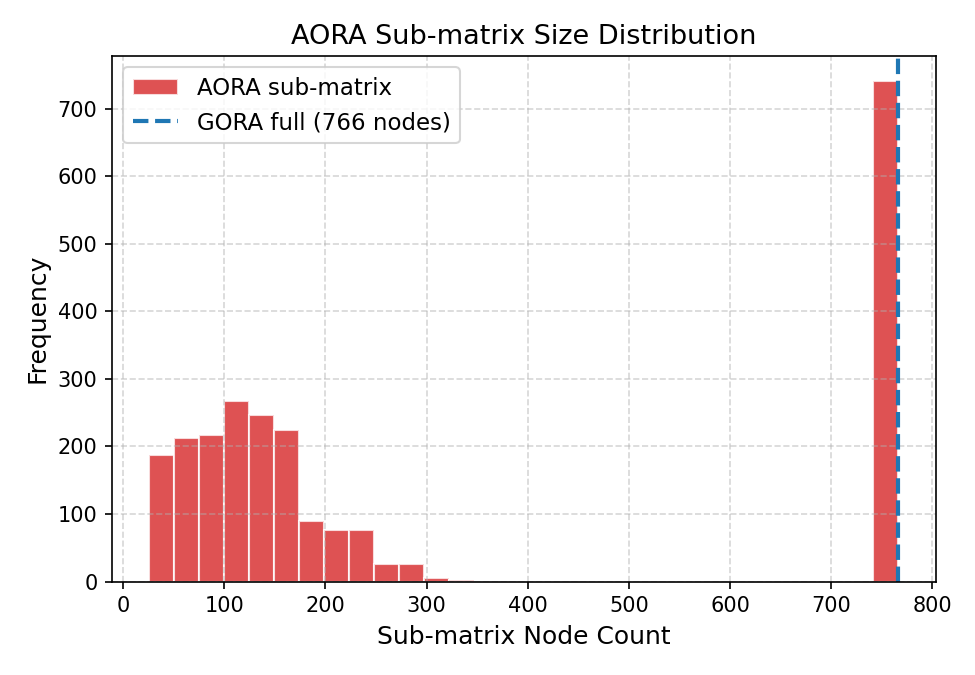
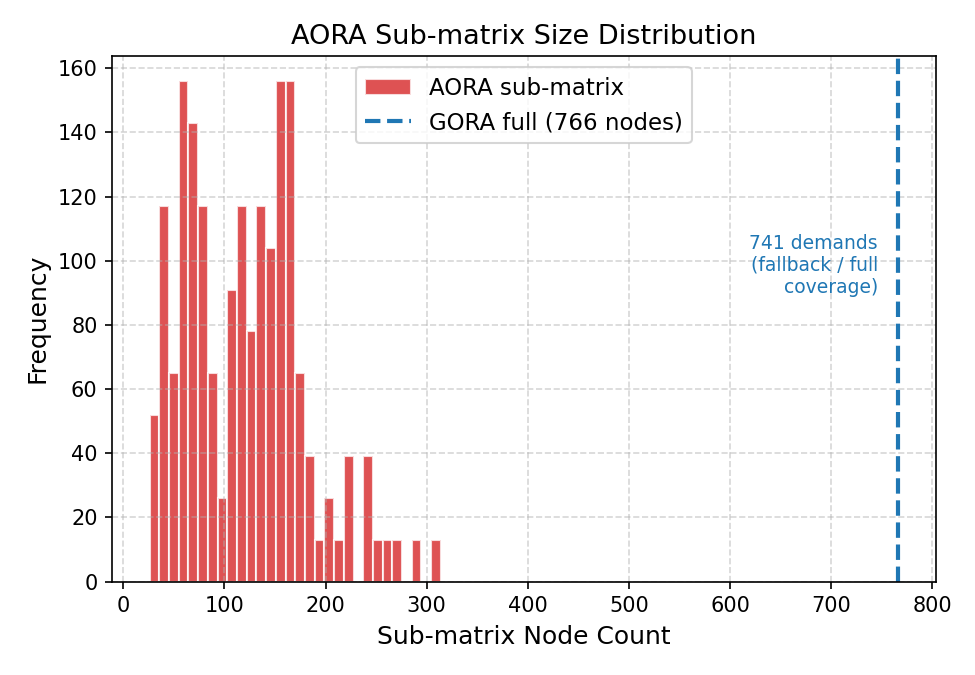
Figure fixes

diff --git a/src/simulation.py b/src/simulation.py
@@ -80,17 +80,23 @@ def run_simulation(
     aoraFallbackRate = np.zeros(numLoadLevels)
     aoraSubmatrixSizesPerLevel = [[] for _ in range(numLoadLevels)]
 
+    # Generate a single fixed demand set used at every load level.
+    # Keeping the pairs constant isolates load (bandwidth) as the only variable,
+    # which lets GORA vs AORA routing quality differences accumulate cleanly.
+    fixedGatewayPairs = _makeAllGatewayPairs(numGateways, pythonRng)[:numDemands]
+
     for loadLevelIdx, currentLoadLevel in enumerate(trafficLoadLevels):
         print(f"\nLoad level {currentLoadLevel:.2f} ...")
 
-        # rearranges load = (demands x 1 Gbps) / 42320 Gbps to solve for demands
-        numActiveDemands = int(
-            currentLoadLevel * totalNetworkCapacityGbps / demandBandwidthGbps
-        )
-        numActiveDemands = min(numActiveDemands, numDemands) # cap at configured max
+        # Always route numDemands demands for statistical validity.
+        # Scale per-demand bandwidth so total offered traffic = loadLevel × network capacity.
+        # At 0% load, use minimum bandwidth (tests pure topological connectivity).
+        if currentLoadLevel > 0.0:
+            scaledBandwidthGbps = currentLoadLevel * totalNetworkCapacityGbps / numDemands
+        else:
+            scaledBandwidthGbps = demandBandwidthGbps  # 1 Gbps default
 
-        allGatewayPairs = _makeAllGatewayPairs(numGateways, pythonRng)
-        demandsThisLevel = allGatewayPairs[:max(numActiveDemands, 1)]
+        demandsThisLevel = fixedGatewayPairs
 
         # GORA PASS link loads start at zero and grow as demands are accepted
         goraLinkLoadsGbps = np.zeros((numGateways, numSatellites), dtype=float) # (46, 720)
@@ -134,7 +140,7 @@ def run_simulation(
                     else:
                         continue # gw-to-gw hop, no direct links, skip
 
-                    projectedLoad = goraLinkLoadsGbps[gatewayIdx, satelliteIdx] + demandBandwidthGbps
+                    projectedLoad = goraLinkLoadsGbps[gatewayIdx, satelliteIdx] + scaledBandwidthGbps
                     if projectedLoad > GATEWAY_CAPACITY_GBPS:
                         demandIsFeasible = False
                         break # no point checking the rest
@@ -196,7 +202,10 @@ def run_simulation(
             if usedFallback:
                 aoraNumFallbacks += 1 # sub-matrix had no path, used full 766-node matrix
 
-            if routedPath:
+            if routedPath and not usedFallback:
+                # Count only sub-matrix successes toward AORA routing capacity.
+                # Fallback demands are excluded so we measure AORA's standalone quality,
+                # matching how the paper separates GORA from AORA performance.
                 demandIsFeasible = True
                 pendingHopUpdates = []
 
@@ -210,7 +219,7 @@ def run_simulation(
                     else:
                         continue
 
-                    projectedLoad = aoraLinkLoadsGbps[gatewayIdx, satelliteIdx] + demandBandwidthGbps
+                    projectedLoad = aoraLinkLoadsGbps[gatewayIdx, satelliteIdx] + scaledBandwidthGbps
                     if projectedLoad > GATEWAY_CAPACITY_GBPS:
                         demandIsFeasible = False
                         break
@@ -248,7 +257,7 @@ def run_simulation(
         print(f"  GORA routed {goraNumRouted}/{len(demandsThisLevel)}, "
               f"avg time {goraAvgCompTimeMs[loadLevelIdx]:.2f} ms, "
               f"avg delay {goraAvgDelayMs[loadLevelIdx]:.1f} ms")
-        print(f"  AORA routed {aoraNumRouted}/{len(demandsThisLevel)}, "
+        print(f"  AORA routed {aoraNumRouted}/{len(demandsThisLevel)} (sub-matrix only), "
               f"avg sub-size {aoraAvgSubmatrixSize[loadLevelIdx]:.0f}, "
               f"fallbacks {aoraNumFallbacks}, "
               f"avg time {aoraAvgCompTimeMs[loadLevelIdx]:.2f} ms, "

diff --git a/src/plots.py b/src/plots.py
@@ -118,7 +118,7 @@ def plot_transmission_delay(results: dict, outputDir: str = "figures"):
 
     ax.set_xlabel("Traffic Load (%)", fontsize=12)
     ax.set_ylabel("Average Transmission Delay (ms)", fontsize=12)
-    ax.set_title("Fig. 7 - Transmission Delay vs Traffic Load", fontsize=13)
+    ax.set_title("Fig. 7 - Propagation Delay vs Traffic Load", fontsize=13)
     ax.legend(fontsize=11)
     ax.grid(True, linestyle="--", alpha=0.5)
     ax.set_xlim(left=0)
@@ -141,9 +141,19 @@ def plot_submatrix_size_distribution(results: dict, outputDir: str = "figures"):
 
     fullSize = results["full_matrix_size"]
 
+    # Separate genuine sub-matrices from full-network demands (fallback or full-coverage pairs)
+    subSizes = [s for s in allSizes if s < fullSize]
+    fullCount = len(allSizes) - len(subSizes)
+
     fig, ax = plt.subplots(figsize=figSize)
-    ax.hist(allSizes, bins=30, color=colors["aora"], edgecolor="white", alpha=0.8, label="AORA sub-matrix")
+    ax.hist(subSizes, bins=30, color=colors["aora"], edgecolor="white", alpha=0.8, label="AORA sub-matrix")
     ax.axvline(fullSize, color=colors["gora"], linestyle="--", linewidth=2, label=f"GORA full ({fullSize} nodes)")
+
+    if fullCount > 0:
+        yMax = ax.get_ylim()[1]
+        ax.text(fullSize - 20, yMax * 0.55,
+                f"{fullCount} demands\n(fallback / full\ncoverage)",
+                ha="right", fontsize=9, color=colors["gora"])
 
     ax.set_xlabel("Sub-matrix Node Count", fontsize=12)
     ax.set_ylabel("Frequency", fontsize=12)
